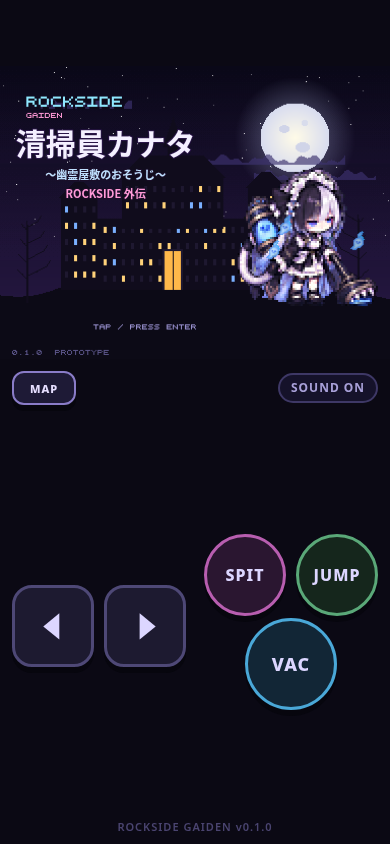
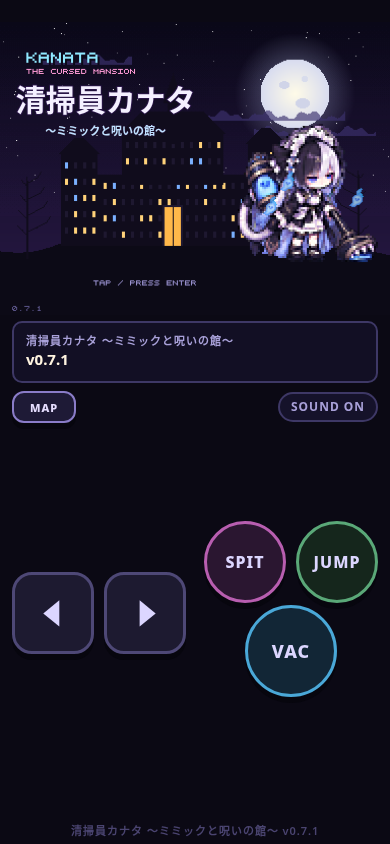
v0.7.1: rename to 清掃員カナタ ～ミミックと呪いの館～, remove ROCKSIDE branding

diff --git a/index.html b/index.html
@@ -7,7 +7,7 @@
 <meta name="apple-mobile-web-app-capable" content="yes">
 <meta name="theme-color" content="#0b0914">
 <meta name="robots" content="noindex, nofollow">
-<title>ROCKSIDE外伝 – 清掃員カナタ</title>
+<title>清掃員カナタ ～ミミックと呪いの館～</title>
 <style>
 html,body{margin:0;padding:0;width:100%;height:100%;overflow:hidden;background:#0b0914;
   touch-action:none;-webkit-user-select:none;user-select:none;-webkit-touch-callout:none;
@@ -59,19 +59,19 @@ body.land #hint{display:none;}
   <div class="btn round" id="bS">SPIT</div>
   <div class="btn" id="bMap">MAP</div>
   <div id="mute">SOUND ON</div>
-  <div id="hint">ROCKSIDE GAIDEN</div>
+  <div id="hint">KANATA THE CURSED MANSION</div>
   <div id="msg"></div>
 </div>
 <script>
 'use strict';
 // Version label (title screen + footer). Bump on every release.
-const GAME_VERSION = '0.7.0';
+const GAME_VERSION = '0.7.1';
 // v0.6: the clock heart is sealed six times: the clock itself, the theater & observatory, and the three highest/strangest domains
 // v0.6.1: twelve seals like a clock face, hour = index + 1 (chandelier, golem and serpent are left out)
 const SEAL_BOSSES = ['rose', 'organ', 'marionette', 'orrery', 'tarant', 'knight', 'bellboard', 'angler', 'paintgolem', 'galecock', 'boxjack', 'clock'];
 function sealTip(id) { }   // v0.6.1: replaced by onSealBeat (08y_seals.js)
 // =====================================================================
-//  ROCKSIDE外伝 清掃員カナタ  -  haunted-mansion exploration + vacuum action (prototype)
+//  清掃員カナタ ～ミミックと呪いの館～  -  haunted-mansion exploration + vacuum action (prototype)
 //  All gameplay tuning lives in CONFIG. Units: pixels and frames @60Hz.
 // =====================================================================
 const CONFIG = {
@@ -550,7 +550,7 @@ window.addEventListener('keyup', e => { const k = KEYMAP[e.code]; if (k) { keys[
 
 const msgEl = document.getElementById('msg');
 const pad = document.getElementById('pad'), muteBtn = document.getElementById('mute'), hintEl = document.getElementById('hint'), mapBtn = document.getElementById('bMap');
-hintEl.textContent = 'ROCKSIDE GAIDEN  v' + GAME_VERSION;
+hintEl.textContent = '清掃員カナタ ～ミミックと呪いの館～  v' + GAME_VERSION;
 const BTN = { left: document.getElementById('bL'), right: document.getElementById('bR'), jump: document.getElementById('bJ'), vac: document.getElementById('bV'), spit: document.getElementById('bS') };
 const BTN_ON = { left: false, right: false, jump: false, vac: false, spit: false };
 const ptrs = new Map();
@@ -5987,7 +5987,7 @@ function renderThanks() {
   const a = Math.min(1, stateT / 40);
   drawHiText('THANK YOU', VW / 2, 22, 28, '#fff4c0', '#2a1648', 'center', a);
   drawHiText('FOR PLAYING!', VW / 2, 56, 24, '#bfe0ff', '#1a0e28', 'center', a);
-  drawHiText('ROCKSIDE外伝 清掃員カナタ  v' + GAME_VERSION, VW / 2, 90, 9, '#e8dcff', null, 'center', a);
+  drawHiText('清掃員カナタ ～ミミックと呪いの館～  v' + GAME_VERSION, VW / 2, 90, 9, '#e8dcff', null, 'center', a);
 }
 function renderPlayBase() { g.fillStyle = '#000'; g.fillRect(0, 0, VW, VH); g.drawImage(room.canvas, clamp(Math.round(cam.x), 0, room.W - VW), clamp(Math.round(cam.y), 0, room.H - VH), VW, VH, 0, 0, VW, VH); drawDoorSeal(); }
 const TITLE_MENU = [{ x: 108, y: 246, w: 76, h: 18 }, { x: 200, y: 246, w: 76, h: 18 }];
@@ -6000,16 +6000,15 @@ function renderTitle() {
   g.drawImage(c, 0, 0, f.w, f.h, 300 - f.ax * sc, 236 - f.ay * sc + bob, f.w * sc, f.h * sc);
   for (let i = 0; i < 3; i++) { const a = stateT * 0.03 + i * 2.1; g.globalAlpha = 0.8; g.drawImage(IMG.wisp, Math.round(300 + Math.cos(a) * 52 - 7), Math.round(160 + Math.sin(a) * 14 + bob)); g.globalAlpha = 1; }
   // logo
-  drawTextShadow('ROCKSIDE', 26, 30, 'c', 2);
-  drawTextShadow('GAIDEN', 26, 46, 'p', 1);
+  drawTextShadow('KANATA', 26, 30, 'c', 2);
+  drawTextShadow('THE CURSED MANSION', 26, 46, 'p', 1);
   const hasSave = assetsReady() && !!loadSave();
   if (hasSave) { TITLE_MENU.forEach((m, i) => { const on = i === titleSel; g.fillStyle = on ? 'rgba(90,76,192,0.85)' : 'rgba(20,16,40,0.8)'; g.fillRect(m.x, m.y, m.w, m.h); rectLine(m.x, m.y, m.w, m.h, on ? '#e0d8ff' : '#5a5488'); }); }
   else drawTextShadow('TAP / PRESS ENTER', VW / 2 - 50, 254, ((stateT >> 5) & 1) ? 'w' : 'b', 1, 'c');
   drawText('v' + GAME_VERSION, 6, VH - 9, 'd', 1);
   blit();
   drawHiText('清掃員カナタ', 104, 62, 30, '#f4f0ff', '#2a1648');
-  drawHiText('〜幽霊屋敷のおそうじ〜', 104, 102, 10, '#bfe0ff', '#1a0e28');
-  drawHiText('ROCKSIDE 外伝', 104, 120, 8, '#ff9ad8', '#1a0e28');
+  drawHiText('～ミミックと呪いの館～', 104, 102, 11, '#bfe0ff', '#1a0e28');
   if (hasSave) { drawHiText('つづきから', TITLE_MENU[0].x + TITLE_MENU[0].w / 2, TITLE_MENU[0].y + 4, 8, '#ffffff'); drawHiText('はじめから', TITLE_MENU[1].x + TITLE_MENU[1].w / 2, TITLE_MENU[1].y + 4, 8, '#ffffff'); }
 }
 function renderClear() {
@@ -6045,7 +6044,7 @@ function updateMsgPanel() {
   if (state === 'play' || state === 'map' || state === 'warp' || state === 'shop') {
     if (tipBox.t > 0) html = '<span class="tip">' + tipBox.text + '</span>';
     else { const a = AREAS[room.def.area] || AREAS.east; html = '<span class="area" style="color:' + '#c8c0f0' + '">' + a.jp + '</span><span class="room">' + room.def.jp + '</span>'; }
-  } else html = '<span class="area">ROCKSIDE外伝 清掃員カナタ</span><span class="room">v' + GAME_VERSION + '</span>';
+  } else html = '<span class="area">清掃員カナタ ～ミミックと呪いの館～</span><span class="room">v' + GAME_VERSION + '</span>';
   if (html !== msgShown) { msgShown = html; msgEl.innerHTML = html; }
 }
 function render() {

diff --git a/src/10_render.js b/src/10_render.js
@@ -548,7 +548,7 @@ function renderThanks() {
   const a = Math.min(1, stateT / 40);
   drawHiText('THANK YOU', VW / 2, 22, 28, '#fff4c0', '#2a1648', 'center', a);
   drawHiText('FOR PLAYING!', VW / 2, 56, 24, '#bfe0ff', '#1a0e28', 'center', a);
-  drawHiText('ROCKSIDE外伝 清掃員カナタ  v' + GAME_VERSION, VW / 2, 90, 9, '#e8dcff', null, 'center', a);
+  drawHiText('清掃員カナタ ～ミミックと呪いの館～  v' + GAME_VERSION, VW / 2, 90, 9, '#e8dcff', null, 'center', a);
 }
 function renderPlayBase() { g.fillStyle = '#000'; g.fillRect(0, 0, VW, VH); g.drawImage(room.canvas, clamp(Math.round(cam.x), 0, room.W - VW), clamp(Math.round(cam.y), 0, room.H - VH), VW, VH, 0, 0, VW, VH); drawDoorSeal(); }
 const TITLE_MENU = [{ x: 108, y: 246, w: 76, h: 18 }, { x: 200, y: 246, w: 76, h: 18 }];
@@ -561,16 +561,15 @@ function renderTitle() {
   g.drawImage(c, 0, 0, f.w, f.h, 300 - f.ax * sc, 236 - f.ay * sc + bob, f.w * sc, f.h * sc);
   for (let i = 0; i < 3; i++) { const a = stateT * 0.03 + i * 2.1; g.globalAlpha = 0.8; g.drawImage(IMG.wisp, Math.round(300 + Math.cos(a) * 52 - 7), Math.round(160 + Math.sin(a) * 14 + bob)); g.globalAlpha = 1; }
   // logo
-  drawTextShadow('ROCKSIDE', 26, 30, 'c', 2);
-  drawTextShadow('GAIDEN', 26, 46, 'p', 1);
+  drawTextShadow('KANATA', 26, 30, 'c', 2);
+  drawTextShadow('THE CURSED MANSION', 26, 46, 'p', 1);
   const hasSave = assetsReady() && !!loadSave();
   if (hasSave) { TITLE_MENU.forEach((m, i) => { const on = i === titleSel; g.fillStyle = on ? 'rgba(90,76,192,0.85)' : 'rgba(20,16,40,0.8)'; g.fillRect(m.x, m.y, m.w, m.h); rectLine(m.x, m.y, m.w, m.h, on ? '#e0d8ff' : '#5a5488'); }); }
   else drawTextShadow('TAP / PRESS ENTER', VW / 2 - 50, 254, ((stateT >> 5) & 1) ? 'w' : 'b', 1, 'c');
   drawText('v' + GAME_VERSION, 6, VH - 9, 'd', 1);
   blit();
   drawHiText('清掃員カナタ', 104, 62, 30, '#f4f0ff', '#2a1648');
-  drawHiText('〜幽霊屋敷のおそうじ〜', 104, 102, 10, '#bfe0ff', '#1a0e28');
-  drawHiText('ROCKSIDE 外伝', 104, 120, 8, '#ff9ad8', '#1a0e28');
+  drawHiText('～ミミックと呪いの館～', 104, 102, 11, '#bfe0ff', '#1a0e28');
   if (hasSave) { drawHiText('つづきから', TITLE_MENU[0].x + TITLE_MENU[0].w / 2, TITLE_MENU[0].y + 4, 8, '#ffffff'); drawHiText('はじめから', TITLE_MENU[1].x + TITLE_MENU[1].w / 2, TITLE_MENU[1].y + 4, 8, '#ffffff'); }
 }
 function renderClear() {
@@ -606,7 +605,7 @@ function updateMsgPanel() {
   if (state === 'play' || state === 'map' || state === 'warp' || state === 'shop') {
     if (tipBox.t > 0) html = '<span class="tip">' + tipBox.text + '</span>';
     else { const a = AREAS[room.def.area] || AREAS.east; html = '<span class="area" style="color:' + '#c8c0f0' + '">' + a.jp + '</span><span class="room">' + room.def.jp + '</span>'; }
-  } else html = '<span class="area">ROCKSIDE外伝 清掃員カナタ</span><span class="room">v' + GAME_VERSION + '</span>';
+  } else html = '<span class="area">清掃員カナタ ～ミミックと呪いの館～</span><span class="room">v' + GAME_VERSION + '</span>';
   if (html !== msgShown) { msgShown = html; msgEl.innerHTML = html; }
 }
 function render() {

diff --git a/src/02_config.js b/src/02_config.js
@@ -1,11 +1,11 @@
 // Version label (title screen + footer). Bump on every release.
-const GAME_VERSION = '0.7.0';
+const GAME_VERSION = '0.7.1';
 // v0.6: the clock heart is sealed six times: the clock itself, the theater & observatory, and the three highest/strangest domains
 // v0.6.1: twelve seals like a clock face, hour = index + 1 (chandelier, golem and serpent are left out)
 const SEAL_BOSSES = ['rose', 'organ', 'marionette', 'orrery', 'tarant', 'knight', 'bellboard', 'angler', 'paintgolem', 'galecock', 'boxjack', 'clock'];
 function sealTip(id) { }   // v0.6.1: replaced by onSealBeat (08y_seals.js)
 // =====================================================================
-//  ROCKSIDE外伝 清掃員カナタ  -  haunted-mansion exploration + vacuum action (prototype)
+//  清掃員カナタ ～ミミックと呪いの館～  -  haunted-mansion exploration + vacuum action (prototype)
 //  All gameplay tuning lives in CONFIG. Units: pixels and frames @60Hz.
 // =====================================================================
 const CONFIG = {

diff --git a/tools/test.js b/tools/test.js
@@ -120,7 +120,7 @@ const shot = async (page, name) => { if (WANT_SHOTS) await page.screenshot({ pat
       ok('fewer rats and bat swarms (<= 15 rats, <= 6 swarms)', crit.rats <= 15 && crit.bats <= 6, crit);
       ok('a warp room in every area', ['east', 'laundry', 'garden', 'clock', 'crypt', 'bath', 'wine', 'armory', 'servants', 'lake'].every(a => crit.warps.includes(a)), crit.warps);
       ok('title has no PROTOTYPE', !(await E(page, () => document.documentElement.innerHTML.includes('PROTOTYPE'))));
-      ok('version 0.7.0', await E(page, () => (typeof GAME_VERSION !== 'undefined' && GAME_VERSION === '0.7.0') || GAIDEN.CONFIG.version === '0.7.0'));
+      ok('version 0.7.1', await E(page, () => (typeof GAME_VERSION !== 'undefined' && GAME_VERSION === '0.7.1') || GAIDEN.CONFIG.version === '0.7.1'));
       await ctx.close(); }
 
     // ---- world reachability / ability gating (static check over the stitched tile grid)

diff --git a/src/03_core.js b/src/03_core.js
@@ -305,7 +305,7 @@ window.addEventListener('keyup', e => { const k = KEYMAP[e.code]; if (k) { keys[
 
 const msgEl = document.getElementById('msg');
 const pad = document.getElementById('pad'), muteBtn = document.getElementById('mute'), hintEl = document.getElementById('hint'), mapBtn = document.getElementById('bMap');
-hintEl.textContent = 'ROCKSIDE GAIDEN  v' + GAME_VERSION;
+hintEl.textContent = '清掃員カナタ ～ミミックと呪いの館～  v' + GAME_VERSION;
 const BTN = { left: document.getElementById('bL'), right: document.getElementById('bR'), jump: document.getElementById('bJ'), vac: document.getElementById('bV'), spit: document.getElementById('bS') };
 const BTN_ON = { left: false, right: false, jump: false, vac: false, spit: false };
 const ptrs = new Map();

diff --git a/src/01_head.html b/src/01_head.html
@@ -7,7 +7,7 @@
 <meta name="apple-mobile-web-app-capable" content="yes">
 <meta name="theme-color" content="#0b0914">
 <meta name="robots" content="noindex, nofollow">
-<title>ROCKSIDE外伝 – 清掃員カナタ</title>
+<title>清掃員カナタ ～ミミックと呪いの館～</title>
 <style>
 html,body{margin:0;padding:0;width:100%;height:100%;overflow:hidden;background:#0b0914;
   touch-action:none;-webkit-user-select:none;user-select:none;-webkit-touch-callout:none;
@@ -59,7 +59,7 @@ body.land #hint{display:none;}
   <div class="btn round" id="bS">SPIT</div>
   <div class="btn" id="bMap">MAP</div>
   <div id="mute">SOUND ON</div>
-  <div id="hint">ROCKSIDE GAIDEN</div>
+  <div id="hint">KANATA THE CURSED MANSION</div>
   <div id="msg"></div>
 </div>
 <script>

diff --git a/README.md b/README.md
@@ -1,6 +1,6 @@
-# ROCKSIDE外伝 – 清掃員カナタ 〜幽霊屋敷のおそうじ〜 (v0.5.0)
+# 清掃員カナタ ～ミミックと呪いの館～ (v0.7.1)
 
-A small SotN-style exploration game with a Luigi's-Mansion vacuum. It is a spin-off of ROCKSIDE.
+A small SotN-style exploration game with a Luigi's-Mansion vacuum.
 Play it here: https://kanata-games.github.io/rockside-gaiden/ (the page has noindex).
 
 ## Controls
